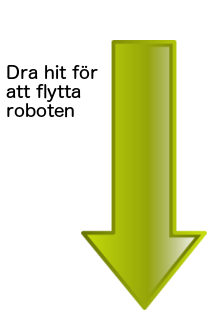
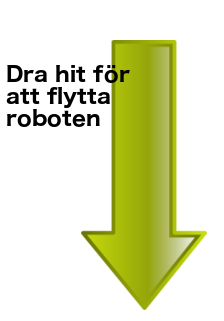
Added helparrows

Changed region(s): [[0.0312, 0.1869, 0.5938, 0.405]]

diff --git a/www/src/states/Level.js b/www/src/states/Level.js
@@ -13,7 +13,11 @@ RobotKompis.Level = function (game) {
     this.gopil;
     this.pilmute;
     this.radpil;
+    this.homepil;
     this.pilar;
+    this.movepil;
+    this.clearpil;
+    
 
     // The robot player
     this.player;
@@ -258,25 +262,38 @@ RobotKompis.Level.prototype = {
         this.help_btn = this.add.button(965, this.world.height - 470, 'help_btn', this.seeTut, this);
         
         this.commandopil = this.add.image(200, this.world.height - 260, 'commandopil');
-        this.commandopil.scale.setTo(0.4,0.4);
+        this.commandopil.scale.setTo(0.5,0.5);
         this.commandopil.visible = false;
         
-        this.pilmute = this.add.image(850, 70, 'pilmute');
-        this.pilmute.scale.setTo(0.4,0.4);
+        this.pilmute = this.add.image(820, 70, 'pilmute');
+        this.pilmute.scale.setTo(0.5,0.5);
         this.pilmute.visible = false;
         
-        this.gopil = this.add.image(850, 250, 'gopil');
-        this.gopil.scale.setTo(0.4,0.4);
+        this.gopil = this.add.image(820, 250, 'gopil');
+        this.gopil.scale.setTo(0.5,0.5);
         this.gopil.visible = false;
         
         
-        this.funkpil = this.add.image(850, 190, 'funkpil');
-        this.funkpil.scale.setTo(0.4,0.4);
+        this.funkpil = this.add.image(820, 190, 'funkpil');
+        this.funkpil.scale.setTo(0.5,0.5);
         this.funkpil.visible = false;
         
-        this.radpil = this.add.image(830, 420, 'radpil');
-        this.radpil.scale.setTo(0.4,0.4);
+        this.radpil = this.add.image(810, 420, 'radpil');
+        this.radpil.scale.setTo(0.5,0.5);
         this.radpil.visible = false;
+        
+        this.homepil = this.add.image(820, 10, 'homepil');
+        this.homepil.scale.setTo(0.5,0.5);
+        this.homepil.visible = false;
+        
+        this.clearpil = this.add.image(820, 360, 'clearpil');
+        this.clearpil.scale.setTo(0.5,0.5);
+        this.clearpil.visible = false;
+        
+        this.movepil = this.add.image(700, 500, 'movepil');
+        this.movepil.scale.setTo(0.5,0.5);
+        this.movepil.visible = false;
+        
         
         this.pilar = false;
         
@@ -477,6 +494,9 @@ RobotKompis.Level.prototype = {
             this.funkpil.visible = true;
             this.radpil.visible = true;
             this.pilmute.visible = true;
+            this.homepil.visible = true;
+            this.clearpil.visible = true;
+            this.movepil.visible = true;
         }
         else { //...*** and closes if opened ;)
             this.pilar = false;
@@ -486,6 +506,9 @@ RobotKompis.Level.prototype = {
             this.funkpil.visible = false;
             this.radpil.visible = false;
             this.pilmute.visible = false;
+            this.homepil.visible = false;
+            this.clearpil.visible = false;
+            this.movepil.visible = false;
         }
         
     },

diff --git a/www/src/states/Preloader.js b/www/src/states/Preloader.js
@@ -98,6 +98,10 @@ RobotKompis.Preloader.prototype = {
         this.load.image('gopil', '../../assets/pilar/gopil.png');
         this.load.image('pilmute', '../../assets/pilar/pilmute.png');
         this.load.image('radpil', '../../assets/pilar/radpil.png');
+        this.load.image('homepil', '../../assets/pilar/Pilhem.png');
+        this.load.image('clearpil', '../../assets/pilar/clearpil.png');
+        this.load.image('homepil', '../../assets/pilar/Pilhem.png');
+        this.load.image('movepil', '../../assets/pilar/movepil.png');
         
         // Images for settings-state
         this.load.image('backButton', '../../images/bakpil.png');
